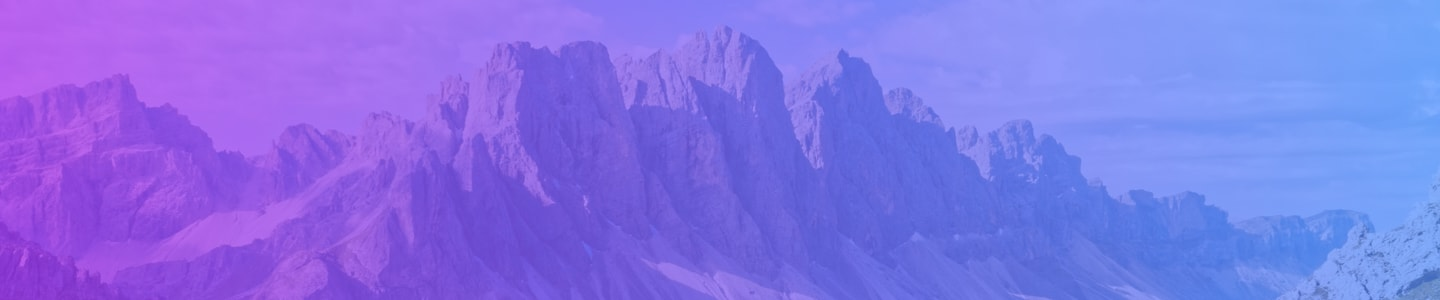
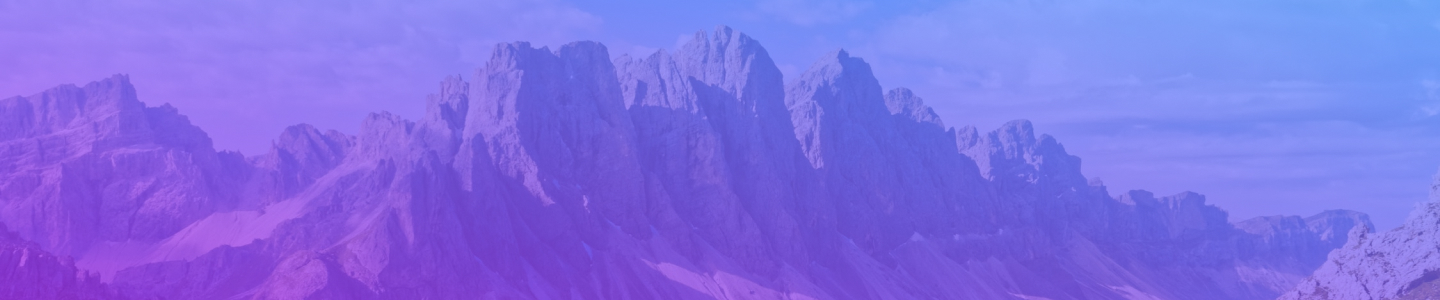
filter component, adjust darkmode

Changed region(s): [[0.5312, 0.57, 1.0, 1.0], [0.0, 0.0, 0.3125, 0.39], [0.4688, 0.99, 0.5, 1.0]]

diff --git a/src/Components/Filters.jsx b/src/Components/Filters.jsx
@@ -1,6 +1,6 @@
 import React, { useState } from "react";
 
-export default function Filters() {
+export default function Filters({ darkMode, isActive }) {
   const array = [
     { id: 1, label: "items left" },
     { id: 2, label: "All" },
@@ -8,38 +8,30 @@ export default function Filters() {
     { id: 4, label: "Completed" },
     { id: 5, label: "Clear Completed" },
   ];
-  const [isActive, setIsActive] = useState(false);
-  const handleActive = () => {
-    setIsActive(!isActive);
+
+  const handleActive = (id) => {
+    setIsActive(id);
+    console.log(isActive);
   };
   return (
-    <div className="flex row-auto justify-between bg-grey rounded-[10px] px-3 py-2 drop-shadow-xl text-[#4d5067]">
-      <div>
-        <span className="cursor-pointer hover:text-white"> items left </span>
-      </div>
-
-      <div>
-        <span
-          onClick={handleActive}
-          className={` cursor-pointer  hover:text-white  ${
-            isActive ? "text-brightblue" : ""
-          }`}
-        >
-          All{" "}
-        </span>
-        <span className="cursor-pointer px-1 hover:text-white ">Active </span>
-        <span className="cursor-pointer px-1 hover:text-white">Completed </span>
-      </div>
-
-      <div>
-        <span
-          onClick={handleActive}
-          className={` cursor-pointer  hover:text-white  ${
-            isActive ? "text-brightblue" : ""
-          }`}
-        >
-          Clear Complated
-        </span>
+    <div
+      className={`${
+        darkMode ? "bg-grey" : "bg-whitelist "
+      } flex row-auto justify-between  rounded-[10px] px-3 py-2 drop-shadow-xl text-[#4d5067]`}
+    >
+      <div className="flex row-auto  justify-around  w-full">
+        {array.map((item) => (
+          <span
+            key={item.id}
+            onClick={() => handleActive(item.id)}
+            className={`cursor-pointer ${
+              darkMode ? "hover:text-white" : "hover:text-brightblue"
+            }  ${isActive === item.id ? "text-white" : ""}`}
+          >
+            {" "}
+            {item.label}
+          </span>
+        ))}
       </div>
     </div>
   );

diff --git a/src/App.jsx b/src/App.jsx
@@ -3,25 +3,42 @@ import "./App.css";
 import AddTodo from "./Components/AddTodo";
 import TodoList from "./Components/TodoList";
 import Filters from "./Components/Filters";
+import { createContext } from "react";
 
 function App() {
   const [todos, setTodos] = useState([]);
   const [inputValue, setInputValue] = useState("");
+  const [darkMode, setDarkMode] = useState(false);
+  const [isActive, setIsActive] = useState(false);
+
+  const toogleDarkMode = () => {
+    setDarkMode(!darkMode);
+    console.log(darkMode);
+  };
 
   return (
-    <main className="bg-hero-pattern bg-no-repeat bg-center bg-cover ">
-      <div className="w-[540px] mx-auto transform translate-y-[80px]">
+    <main
+      className={`${
+        darkMode ? "bg-hero-pattern" : "bg-hero-pattern-light bg-white"
+      } bg-no-repeat bg-fixed min-w-fit min-h-screen  `}
+    >
+      <div className="w-[540px] mx-auto transform translate-y-[80px] border-2">
         <div className="flex justify-between items-center  ">
           <h1 className="text-white text-[40px] font-bold">T O D O</h1>
-          <img src="/icon-sun.svg" alt="" />
+          <img
+            src={darkMode ? "/icon-sun.svg" : "/icon-moon.svg"}
+            alt=""
+            onClick={toogleDarkMode}
+          />
         </div>
         <AddTodo
           inputValue={inputValue}
           setInputValue={setInputValue}
           setTodos={setTodos}
+          darkMode={darkMode}
         />
-        <TodoList todos={todos} setTodos={setTodos} />
-        <Filters />
+        <TodoList todos={todos} setTodos={setTodos} darkMode={darkMode} />
+        <Filters darkMode={darkMode} />
       </div>
     </main>
   );

diff --git a/src/Components/AddTodo.jsx b/src/Components/AddTodo.jsx
@@ -1,6 +1,11 @@
 import React from "react";
 
-export default function AddTodo({ inputValue, setInputValue, setTodos }) {
+export default function AddTodo({
+  inputValue,
+  setInputValue,
+  setTodos,
+  darkMode,
+}) {
   const handleAdd = () => {
     setTodos((prevTodos) => [
       ...prevTodos,
@@ -15,7 +20,9 @@ export default function AddTodo({ inputValue, setInputValue, setTodos }) {
   return (
     <div className=" mt-[50px] relative rounded-[10px] overflow-hidden drop-shadow-xl">
       <input
-        className="py-4 pl-10 bg-grey outline-none text-[#4d5067] text-[18px] w-full "
+        className={`${
+          darkMode ? "bg-grey" : "bg-white"
+        } py-4 pl-10 bg-grey outline-none text-[#4d5067] text-[18px] w-full `}
         type="text"
         value={inputValue}
         placeholder="Create a new Todo..."

diff --git a/src/Components/TodoList.jsx b/src/Components/TodoList.jsx
@@ -1,6 +1,6 @@
 import React, { useState } from "react";
 
-export default function TodoList({ todos, setTodos }) {
+export default function TodoList({ todos, setTodos, darkMode }) {
   const [editId, setEditId] = useState();
   const [editText, setEditText] = useState("");
 
@@ -40,7 +40,11 @@ export default function TodoList({ todos, setTodos }) {
   };
 
   return (
-    <ul className="w-full bg-grey mt-[30px] rounded-[10px] text-start pl-4 py-2 drop-shadow-xl">
+    <ul
+      className={`${
+        darkMode ? "bg-grey text-[#4d5067]" : "bg-whitelist"
+      } w-full text-[#4d5067] mt-[30px] rounded-[10px] text-start pl-4 py-2 drop-shadow-xl`}
+    >
       {todos.map((item) => (
         <li key={item.id} className="py-4 border-b border-gray-700">
           <input

diff --git a/tailwind.config.js b/tailwind.config.js
@@ -1,16 +1,19 @@
 /** @type {import('tailwindcss').Config} */
 export default {
   content: ["./index.html", "./src/**/*.{js,ts,jsx,tsx}"],
+  darkMode: "class",
   theme: {
     extend: {
       colors: {
         dark: "#171823",
         grey: "#25273d",
         brightblue: "hsl(220, 98%, 61%)",
+        white: "#ffffff",
+        whitelist: "#fafafa",
       },
       backgroundImage: {
         "hero-pattern": "url('/bg-desktop-dark.jpg')",
-        // "footer-texture": "url('/img/footer-texture.png')",
+        "hero-pattern-light": "url(/bg-desktop-light.jpg)",
       },
     },
   },

diff --git a/README-template.md b/README-template.md
@@ -1,6 +1,6 @@
 # Frontend Mentor - Todo app solution
 
-This is a solution to the [Todo app challenge on Frontend Mentor](https://www.frontendmentor.io/challenges/todo-app-Su1_KokOW). Frontend Mentor challenges help you improve your coding skills by building realistic projects. 
+This is a solution to the [Todo app challenge on Frontend Mentor](https://www.frontendmentor.io/challenges/todo-app-Su1_KokOW). Frontend Mentor challenges help you improve your coding skills by building realistic projects.
 
 ## Table of contents
 
@@ -15,8 +15,6 @@ This is a solution to the [Todo app challenge on Frontend Mentor](https://www.fr
   - [Useful resources](#useful-resources)
 - [Author](#author)
 - [Acknowledgments](#acknowledgments)
-
-**Note: Delete this note and update the table of contents based on what sections you keep.**
 
 ## Overview
 
@@ -38,20 +36,16 @@ Users should be able to:
 
 ![](./screenshot.jpg)
 
-Add a screenshot of your solution. The easiest way to do this is to use Firefox to view your project, right-click the page and select "Take a Screenshot". You can choose either a full-height screenshot or a cropped one based on how long the page is. If it's very long, it might be best to crop it.
-
-Alternatively, you can use a tool like [FireShot](https://getfireshot.com/) to take the screenshot. FireShot has a free option, so you don't need to purchase it. 
-
-Then crop/optimize/edit your image however you like, add it to your project, and update the file path in the image above.
-
-**Note: Delete this note and the paragraphs above when you add your screenshot. If you prefer not to add a screenshot, feel free to remove this entire section.**
-
 ### Links
 
 - Solution URL: [Add solution URL here](https://your-solution-url.com)
 - Live Site URL: [Add live site URL here](https://your-live-site-url.com)
 
 ## My process
+
+# add Dark mode
+
+- using Context Api
 
 ### Built with
 
@@ -75,15 +69,17 @@ To see how you can add code snippets, see below:
 ```html
 <h1>Some HTML code I'm proud of</h1>
 ```
+
 ```css
 .proud-of-this-css {
   color: papayawhip;
 }
 ```
+
 ```js
 const proudOfThisFunc = () => {
-  console.log('🎉')
-}
+  console.log("🎉");
+};
 ```
 
 If you want more help with writing markdown, we'd recommend checking out [The Markdown Guide](https://www.markdownguide.org/) to learn more.
